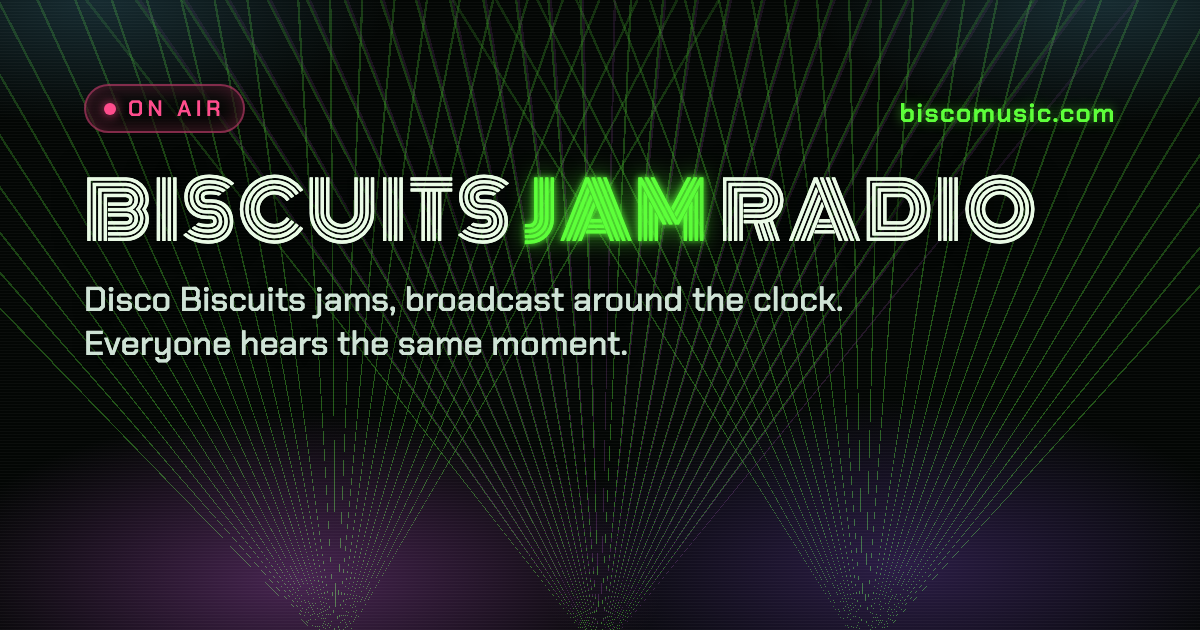
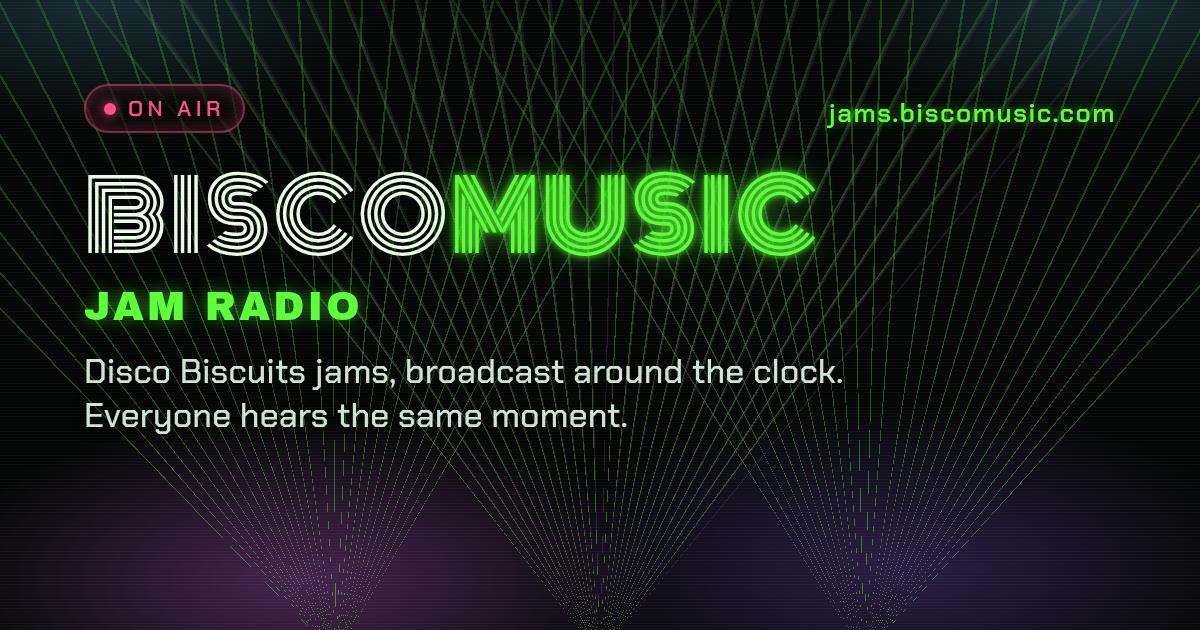
One brand: the biscomusic wordmark on every page, the station named under it
The station pages led with "BISCUITS JAM/SHOW RADIO", which read like the band's own product and never
showed the site's name. Now every header is the BISCOMUSIC wordmark (linking to the picker) with JAM RADIO
or SHOW RADIO in solid green under it; titles and link previews say "Jam Radio · biscomusic", the picker's
cards say JAM RADIO and SHOW RADIO, and each page ends with "Fan-run and unofficial". The link preview
image is re-rendered to match.

The oil effect was hard to read: its dark troughs broke the letters apart. The letters are now solid,
pearl and green, with a few soft iridescent bands drifting over them.

diff --git a/index.html b/index.html
@@ -3,7 +3,7 @@
 <head>
 <meta charset="utf-8">
 <meta name="viewport" content="width=device-width, initial-scale=1">
-<title>Biscuits Jam Radio</title>
+<title>Jam Radio · biscomusic</title>
 <meta name="description" content="All jams, no butter! Disco Biscuits jams, broadcast around the clock. Everyone hears the same moment — react and comment as it plays.">
 <meta name="theme-color" content="#030604">
 <link rel="icon" href="static/favicon.svg" type="image/svg+xml">
@@ -14,16 +14,16 @@
 <meta name="apple-mobile-web-app-title" content="Jam Radio">
 <meta name="apple-mobile-web-app-status-bar-style" content="black">
 <meta property="og:type" content="website">
-<meta property="og:site_name" content="Biscuits Jam Radio">
-<meta property="og:title" content="Biscuits Jam Radio">
+<meta property="og:site_name" content="biscomusic">
+<meta property="og:title" content="Jam Radio · biscomusic">
 <meta property="og:description" content="All jams, no butter! Disco Biscuits jams, broadcast around the clock. Everyone hears the same moment.">
 <meta property="og:url" content="https://jams.biscomusic.com/">
 <meta property="og:image" content="https://jams.biscomusic.com/static/og.png">
 <meta property="og:image:width" content="1200">
 <meta property="og:image:height" content="630">
-<meta property="og:image:alt" content="Biscuits Jam Radio: on air, with a heat map of the best moments">
+<meta property="og:image:alt" content="biscomusic Jam Radio: on air, with a heat map of the best moments">
 <meta name="twitter:card" content="summary_large_image">
-<meta name="twitter:title" content="Biscuits Jam Radio">
+<meta name="twitter:title" content="Jam Radio · biscomusic">
 <meta name="twitter:description" content="All jams, no butter! Disco Biscuits jams, broadcast around the clock. Everyone hears the same moment.">
 <meta name="twitter:image" content="https://jams.biscomusic.com/static/og.png">
 <link rel="preload" href="static/fonts/archivo-black-400.woff2" as="font" type="font/woff2" crossorigin>
@@ -36,7 +36,8 @@
 <main class="wrap">
   <header>
     <div class="brand">
-      <h1 data-oil><a href="https://biscomusic.com/" data-local="/home.html" aria-label="Biscuits Jam Radio, all stations">BISCUITS <span>JAM</span> RADIO</a></h1>
+      <h1 data-oil><a href="https://biscomusic.com/" data-local="/home.html" aria-label="biscomusic, all stations">BISCO<span>MUSIC</span></a></h1>
+      <p class="dial">JAM RADIO</p>
       <p class="tagline">All jams, no butter!</p>
     </div>
     <div class="hside">
@@ -159,6 +160,7 @@
     <a href="/nominate">Nominate jams</a>
     <a href="/install">Get the app</a>
   </nav>
+  <p class="fine">Fan-run and unofficial. Not affiliated with the Disco Biscuits.</p>
 </main>
 
 <!-- Everything besides the radio opens in this panel over it, so the music never stops (see "Panels" below).
@@ -1259,9 +1261,9 @@ function momentUrl(t, pos, c) {
 
 async function shareMoment(t, pos, c) {
   const url = momentUrl(t, pos, c);
-  const text = c ? `“${c.body}” — ${t.song} @ ${fmt(pos)}` : `${t.song}${t.jam ? ` (jam ${t.jam})` : ''} @ ${fmt(pos)} on Biscuits Jam Radio`;
+  const text = c ? `“${c.body}” — ${t.song} @ ${fmt(pos)}` : `${t.song}${t.jam ? ` (jam ${t.jam})` : ''} @ ${fmt(pos)} on biscomusic Jam Radio`;
   if (navigator.share) {
-    try { await navigator.share({ title: 'Biscuits Jam Radio', text, url }); return; }
+    try { await navigator.share({ title: 'Jam Radio · biscomusic', text, url }); return; }
     catch (e) { if (e.name === 'AbortError') return; }
   }
   try { await navigator.clipboard.writeText(url); toast('Link copied', 'link-2'); }
@@ -1405,7 +1407,7 @@ const panelFor = r => panels[r] ||= ROUTES[r].load().then(m => m.init(hostFor(r)
 });
 
 function setTitle() {
-  document.title = route ? `${ROUTES[route].title} · Biscuits Jam Radio` : S ? `${S.tracks[live().i].song} · Biscuits Jam Radio` : 'Biscuits Jam Radio';
+  document.title = route ? `${ROUTES[route].title} · Jam Radio` : S ? `${S.tracks[live().i].song} · Jam Radio` : 'Jam Radio · biscomusic';
 }
 
 // Show what the address says: a panel, or the radio (with a shared moment or the request sheet on it).

diff --git a/static/oil.js b/static/oil.js
@@ -1,6 +1,7 @@
 // Oil-slick colours moving inside the letters of every [data-oil] element (the radio's name in the page
-// headers): simplex noise posterized into iridescent rings with dark oil between them, a WebGL shader
-// after an "Oil Spill" Three.js sketch.
+// headers): a few soft iridescent bands of simplex noise drifting over solid letters (pearl, and green for
+// a <span>), a WebGL shader after an "Oil Spill" Three.js sketch. The sketch's dark oil between the bands
+// broke the letters apart and made the name hard to read, so it's gone.
 // The sketch's noise had a typo (dot(v, ...) for dot(i, ...)) that zeroed it more and more as time grew:
 // its six-pass swirl warp never moved anything, and after about a minute the whole picture went flat green.
 // This uses the correct noise and leaves out the warp, which renders what the sketch showed in its first
@@ -79,7 +80,8 @@ function oilText(el) {
     }
 
     void main() {
-      float alpha = texture2D(uMask, vUv).a;
+      vec4 m = texture2D(uMask, vUv);
+      float alpha = m.a;
       if (alpha < 0.004) { gl_FragColor = vec4(0.0); return; }
 
       vec2 uv = (vUv * uResolution - 0.5 * uResolution) / uUnit;
@@ -90,15 +92,16 @@ function oilText(el) {
       float n = snoise(vec3(uv * 1.26, t * 0.8));
       float val = n * 0.5 + 0.5;
 
-      // Posterized bands with soft edges, iridescent ridges and dark oil troughs between them
-      float bands = 14.0;
+      // Solid letters with an oil sheen: pearl, or green where the mask says accent (red 0), and a few
+      // soft iridescent bands drifting over them. No dark troughs, so every stroke stays whole and readable.
+      vec3 base = mix(vec3(0.95, 0.99, 0.93), vec3(0.36, 1.0, 0.23), 1.0 - m.r);
+      float bands = 5.0;
       float scaled = val * bands;
-      float posterized = (floor(scaled) + smoothstep(0.75, 0.95, fract(scaled))) / bands;
+      float posterized = (floor(scaled) + smoothstep(0.6, 1.0, fract(scaled))) / bands;
       vec3 iridescence = oilPalette(posterized * 2.2 - t * 0.5);
-      float darkMask = smoothstep(0.15, 0.55, sin(scaled * 3.14159));
-      // Troughs lifted from the original near-black so the letters stay readable on the dark card
-      vec3 color = mix(vec3(0.24, 0.22, 0.3), iridescence, darkMask);
-      color += smoothstep(0.4, 0.0, abs(n)) * oilPalette(val + 0.2) * 0.25;   // sheen along the ridges
+      float film = smoothstep(0.2, 0.8, sin(scaled * 3.14159)) * 0.38;
+      vec3 color = mix(base, base * iridescence * 1.6, film);
+      color += smoothstep(0.3, 0.0, abs(n)) * 0.12;   // a highlight along the ridges
 
       gl_FragColor = vec4(color * alpha, alpha);
     }`;
@@ -152,12 +155,12 @@ function oilText(el) {
 
     ctx.setTransform(dpr, 0, 0, dpr, 0, 0);
     ctx.clearRect(0, 0, width, height);
-    ctx.fillStyle = '#fff';
     ctx.textBaseline = 'alphabetic';
     const range = document.createRange();
     const texts = document.createTreeWalker(el, NodeFilter.SHOW_TEXT);
     for (let node; (node = texts.nextNode());) {
       const style = getComputedStyle(node.parentElement);   // a <span> inside may have its own font
+      ctx.fillStyle = node.parentElement.closest('span') ? '#0f0' : '#fff';   // and is the accent colour
       ctx.font = `${style.fontStyle} ${style.fontWeight} ${style.fontSize} ${style.fontFamily}`;
       const ascent = ctx.measureText('Hg').fontBoundingBoxAscent;
       let offset = 0;

diff --git a/home.html b/home.html
@@ -4,14 +4,14 @@
 <meta charset="utf-8">
 <meta name="viewport" content="width=device-width, initial-scale=1">
 <title>biscomusic · Disco Biscuits radio</title>
-<meta name="description" content="Two Disco Biscuits radio stations: Biscuits Jam Radio plays the jams, Biscuits Show Radio plays every full soundboard show on archive.org.">
+<meta name="description" content="Two Disco Biscuits radio stations: Jam Radio plays the jams, Show Radio plays every full soundboard show on archive.org.">
 <meta name="theme-color" content="#030604">
 <link rel="icon" href="/static/favicon.svg" type="image/svg+xml">
 <link rel="apple-touch-icon" href="/static/apple-touch-icon.png">
 <meta property="og:type" content="website">
 <meta property="og:site_name" content="biscomusic">
 <meta property="og:title" content="biscomusic · Disco Biscuits radio">
-<meta property="og:description" content="Biscuits Jam Radio plays the jams. Biscuits Show Radio plays every full soundboard show, start to finish.">
+<meta property="og:description" content="Jam Radio plays the jams. Show Radio plays every full soundboard show, start to finish.">
 <meta property="og:url" content="https://biscomusic.com/">
 <meta property="og:image" content="https://jams.biscomusic.com/static/og.png">
 <meta name="twitter:card" content="summary_large_image">
@@ -21,8 +21,6 @@
 <link rel="stylesheet" href="/static/app.css">
 <meta name="icons" content="/static/icons.svg">
 <style>
-/* "BISCOMUSIC" is 7.3em wide in Archivo Black: as big as fits beside the button (see app.css h1) */
-@supports (width:1cqw){h1{font-size:max(.875rem,min(68px,100cqw / 7.4))}}
 .stations{display:grid;gap:16px}
 a.station{display:block;padding:24px;color:inherit;text-decoration:none}
 a.station:hover{border-color:rgba(93,255,58,.5)}
@@ -50,17 +48,18 @@ a.station:hover .go{text-decoration:underline}
   <nav class="stations" aria-label="Stations">
     <a class="station now" href="https://jams.biscomusic.com/" data-local="/">
       <div class="label">The jams</div>
-      <div class="name">BISCUITS <span>JAM</span> RADIO</div>
+      <div class="name"><span>JAM</span> RADIO</div>
       <p>All jams, no butter! Disco Biscuits jams, broadcast around the clock. Vote for what plays next, react and comment as it plays.</p>
       <span class="go">Tune in <svg class="i" aria-hidden="true"><use href="/static/icons.svg#arrow-right"/></svg></span>
     </a>
     <a class="station now" href="https://shows.biscomusic.com/" data-local="/shows/">
       <div class="label">Whole shows</div>
-      <div class="name">BISCUITS <span>SHOW</span> RADIO</div>
+      <div class="name"><span>SHOW</span> RADIO</div>
       <p>Every full soundboard show on archive.org, start to finish, one show after another, and a vault of audience tapes you can request.</p>
       <span class="go">Tune in <svg class="i" aria-hidden="true"><use href="/static/icons.svg#arrow-right"/></svg></span>
     </a>
   </nav>
+  <p class="fine">Fan-run and unofficial. Not affiliated with the Disco Biscuits.</p>
 </main>
 <script src="/static/icon.js"></script>
 <script src="/static/a11y.js"></script>

diff --git a/static/app.css b/static/app.css
@@ -51,16 +51,17 @@ header{display:flex;align-items:flex-start;justify-content:space-between;gap:12p
 .hside{display:flex;align-items:center;gap:8px;flex:none}
 @media(max-width:480px){.hside{flex-direction:column;align-items:flex-end}}
 .hside .motion{width:32px;height:32px;padding:0;border-radius:50%}
-/* Heavy letters, as big as fit on one line beside the pill: "BISCUITS JAM RADIO" is 12.1em wide
-   in Archivo Black, so 100cqw / 12.25 of the brand box. The rem floor makes it grow with text zoom
-   (WCAG 1.4.4), wrapping when it no longer fits. static/oil.js fills the letters with moving oil.
-   Browsers without container units get the older two-line size. */
+/* The biscomusic wordmark, the same on every page, as big as fits on one line beside the pill: "BISCOMUSIC"
+   is 7.3em wide in Archivo Black, so 100cqw / 7.4 of the brand box, up to 68px. The rem floor makes it grow
+   with text zoom (WCAG 1.4.4). static/oil.js fills the letters with moving oil. Under it, the station's
+   name (.dial) in solid green: it stays readable at any size, where the oil wouldn't. */
 .brand{flex:1;min-width:0;container-type:inline-size}
-h1{font:400 clamp(40px,10vw,68px)/1 var(--logo);letter-spacing:.01em;margin:0}
-@supports (width:1cqw){h1{font-size:max(.875rem,min(68px,100cqw / 12.25))}}
+h1{font:400 clamp(32px,8vw,68px)/1 var(--logo);letter-spacing:.01em;margin:0}
+@supports (width:1cqw){h1{font-size:max(.875rem,min(68px,100cqw / 7.4))}}
 h1 span{color:var(--accent);text-shadow:0 0 4px var(--accent),0 0 14px rgba(93,255,58,.6)}
 /* The name links back to the station picker (biscomusic.com); it keeps the heading's look */
 h1 a{color:inherit;text-decoration:none}
+.dial{margin:10px 0 0;font:400 clamp(18px,4.6vw,24px)/1 var(--logo);letter-spacing:.08em;color:var(--accent);text-shadow:0 0 10px rgba(93,255,58,.45)}
 .tagline{margin:6px 0 0;font-size:13px;font-weight:500;letter-spacing:.12em;color:var(--dim)}
 .live{display:inline-flex;align-items:center;gap:8px;font-size:11px;font-weight:600;letter-spacing:.18em;color:var(--dim);border:1px solid var(--line);padding:7px 11px;border-radius:999px;white-space:nowrap}
 .live i{width:8px;height:8px;border-radius:50%;background:var(--dim)}
@@ -308,6 +309,7 @@ dialog.sheet::backdrop{background:rgba(1,3,2,.72);backdrop-filter:blur(3px)}
 .foot{display:flex;flex-wrap:wrap;justify-content:center;gap:6px 20px;margin-top:28px;font-size:14px}
 .foot a{color:var(--accent);text-decoration:none;min-height:24px}
 .foot a:hover{text-decoration:underline}
+.fine{margin:18px 0 0;text-align:center;font-size:12px;color:var(--dim)}
 .kclip{margin-top:16px;padding:12px 16px 14px;border-radius:16px;border:1px solid rgba(226,104,255,.45);background:linear-gradient(135deg,rgba(226,104,255,.10),rgba(8,30,14,.4));animation:popin .25s ease-out}
 .kclip .fhead .label{color:var(--accent2)}
 .kclip .fhead .iconbtn{margin:-4px -8px -4px 0}

diff --git a/shows/index.html b/shows/index.html
@@ -3,18 +3,18 @@
 <head>
 <meta charset="utf-8">
 <meta name="viewport" content="width=device-width, initial-scale=1">
-<title>Biscuits Show Radio</title>
+<title>Show Radio · biscomusic</title>
 <meta name="description" content="Every full Disco Biscuits soundboard show on archive.org, start to finish, around the clock, and a vault of audience tapes by request. Everyone hears the same moment — react and comment as it plays.">
 <meta name="theme-color" content="#030604">
 <link rel="icon" href="/static/favicon.svg" type="image/svg+xml">
 <link rel="apple-touch-icon" href="/static/apple-touch-icon.png">
 <meta property="og:type" content="website">
-<meta property="og:site_name" content="Biscuits Show Radio">
-<meta property="og:title" content="Biscuits Show Radio">
+<meta property="og:site_name" content="biscomusic">
+<meta property="og:title" content="Show Radio · biscomusic">
 <meta property="og:description" content="Every full Disco Biscuits soundboard show on archive.org, start to finish, around the clock.">
 <meta property="og:url" content="https://shows.biscomusic.com/">
 <meta name="twitter:card" content="summary">
-<meta name="twitter:title" content="Biscuits Show Radio">
+<meta name="twitter:title" content="Show Radio · biscomusic">
 <meta name="twitter:description" content="Every full Disco Biscuits soundboard show on archive.org, start to finish, around the clock.">
 <link rel="preload" href="/static/fonts/archivo-black-400.woff2" as="font" type="font/woff2" crossorigin>
 <link rel="preload" href="/static/fonts/chakra-petch-400.woff2" as="font" type="font/woff2" crossorigin>
@@ -27,7 +27,8 @@
 <main class="wrap">
   <header>
     <div class="brand">
-      <h1 data-oil><a href="https://biscomusic.com/" data-local="/home.html" aria-label="Biscuits Show Radio, all stations">BISCUITS <span>SHOW</span> RADIO</a></h1>
+      <h1 data-oil><a href="https://biscomusic.com/" data-local="/home.html" aria-label="biscomusic, all stations">BISCO<span>MUSIC</span></a></h1>
+      <p class="dial">SHOW RADIO</p>
       <p class="tagline">Full soundboard shows, start to finish</p>
     </div>
     <div class="hside">
@@ -119,9 +120,10 @@
 
   <nav class="foot" aria-label="More">
     <a href="https://biscomusic.com/" data-local="/home.html">All stations</a>
-    <a href="https://jams.biscomusic.com/" data-local="/">Biscuits Jam Radio</a>
+    <a href="https://jams.biscomusic.com/" data-local="/">Jam Radio</a>
     <a href="https://archive.org/details/DiscoBiscuits" target="_blank" rel="noopener">The tapes on archive.org</a>
   </nav>
+  <p class="fine">Fan-run and unofficial. Not affiliated with the Disco Biscuits.</p>
 </main>
 
 <div class="toast" id="toast" role="status" hidden></div>

diff --git a/art/og.html b/art/og.html
@@ -3,6 +3,7 @@
 <html><head><meta charset="utf-8"><style>
 @font-face{font-family:'Chakra Petch';font-weight:500;src:url(../static/fonts/chakra-petch-500.woff2)}
 @font-face{font-family:'Chakra Petch';font-weight:600;src:url(../static/fonts/chakra-petch-600.woff2)}
+@font-face{font-family:'Archivo Black';src:url(../static/fonts/archivo-black-400.woff2)}
 @font-face{font-family:'Monoton';src:url(../static/fonts/monoton-400.woff2)}
 html,body{margin:0;width:1200px;height:630px;overflow:hidden}
 body{background:
@@ -22,17 +23,19 @@ body{background:
 .wrap{position:absolute;left:84px;top:84px;right:84px}
 .live{display:inline-flex;align-items:center;gap:12px;font-size:22px;font-weight:600;letter-spacing:.2em;color:#ff4d8d;border:2px solid rgba(255,77,141,.5);padding:8px 18px;border-radius:999px;background:rgba(3,6,4,.6);box-shadow:0 0 22px rgba(255,77,141,.3) inset}
 .live i{width:12px;height:12px;border-radius:50%;background:#ff4d8d;box-shadow:0 0 12px #ff4d8d}
-h1{font:400 78px/1 'Monoton';margin:40px 0 26px;letter-spacing:.03em;white-space:nowrap;text-shadow:0 0 30px rgba(3,6,4,.9)}
+h1{font:400 96px/1 'Monoton';margin:36px 0 22px;letter-spacing:.03em;white-space:nowrap;text-shadow:0 0 30px rgba(3,6,4,.9)}
 h1 span{color:#5dff3a;text-shadow:0 0 6px #5dff3a,0 0 24px rgba(93,255,58,.7)}
+.dial{font:400 40px/1 'Archivo Black';letter-spacing:.08em;color:#5dff3a;margin:0 0 22px;text-shadow:0 0 16px rgba(93,255,58,.5)}
 p{font-size:34px;font-weight:500;line-height:1.3;color:#cfe3d6;margin:0;max-width:900px;text-shadow:0 2px 12px #030604}
 .url{position:absolute;right:84px;top:96px;font-size:26px;font-weight:600;color:#5dff3a;letter-spacing:.06em;text-shadow:0 0 12px rgba(93,255,58,.5)}
 </style></head><body>
 <div class="lasers"><i></i><i></i><i></i><i></i></div>
 <div class="scan"></div>
-<div class="url">biscomusic.com</div>
+<div class="url">jams.biscomusic.com</div>
 <div class="wrap">
   <div class="live"><i></i>ON AIR</div>
-  <h1>BISCUITS <span>JAM</span> RADIO</h1>
+  <h1>BISCO<span>MUSIC</span></h1>
+  <div class="dial">JAM RADIO</div>
   <p>Disco Biscuits jams, broadcast around the clock. Everyone hears the same moment.</p>
 </div>
 </body></html>

diff --git a/functions/index.js b/functions/index.js
@@ -16,11 +16,11 @@ export async function onRequestGet(context) {
   const comment = url.searchParams.has('c') ? await getComment(env, url.searchParams.get('c')) : null;
   const useComment = comment && comment.track === moment.track;
   const date = new Date(t.date + 'T12:00:00Z').toLocaleDateString('en-US', { month: 'short', day: 'numeric', year: 'numeric', timeZone: 'UTC' });
-  const title = `${t.song}${t.jam ? ` (jam ${t.jam})` : ''} @ ${fmt(moment.pos)} · Biscuits Jam Radio`;
+  const title = `${t.song}${t.jam ? ` (jam ${t.jam})` : ''} @ ${fmt(moment.pos)} · Jam Radio · biscomusic`;
   const show = `${date} · ${t.venue} · ${t.city}`;
   const description = useComment
     ? `“${comment.body}” — ${comment.nickname || 'anonymous'} · ${show}`
-    : `A moment from ${show}. Everyone hears the same moment on Biscuits Jam Radio.`;
+    : `A moment from ${show}. Everyone hears the same moment on biscomusic Jam Radio.`;
 
   const set = value => ({ element: el => el.setAttribute('content', value) });
   return new HTMLRewriter()

diff --git a/static/shows.js b/static/shows.js
@@ -114,7 +114,7 @@ function render() {
   if (i !== shownIdx) {
     shownIdx = i;
     $('song').textContent = titleOf(t);
-    document.title = `${titleOf(t)} · ${day(s.date)} · Biscuits Show Radio`;
+    document.title = `${titleOf(t)} · ${day(s.date)} · Show Radio`;
     if ('mediaSession' in navigator) navigator.mediaSession.metadata = new MediaMetadata({ title: titleOf(t), artist: 'The Disco Biscuits', album: showLine(s), artwork: ARTWORK });
     if (t.si !== shownShow) renderShow(t.si);
     [...$('tracks').children].forEach((li, n) => {

diff --git a/static/shows.css b/static/shows.css
@@ -1,7 +1,4 @@
-/* Biscuits Show Radio (shows/index.html), on top of app.css */
-
-/* "BISCUITS SHOW RADIO" is 13.15em wide in Archivo Black: as big as fits beside the pill (see app.css h1) */
-@supports (width:1cqw){h1{font-size:max(.875rem,min(68px,100cqw / 13.3))}}
+/* Show Radio (shows/index.html), on top of app.css */
 
 /* The show's timeline: one segment per track, as long as the track; played ones lit, the current one filling */
 .showbar{display:flex;gap:2px;height:14px;margin:18px 0 8px}

diff --git a/build.py b/build.py
@@ -35,16 +35,16 @@ WAVES = os.path.join(HERE, 'waves')
 # name: (title, description, og:description)
 PANELS = {
     'best': ('Best moments',
-             'The most-loved and most talked-about moments on Biscuits Jam Radio. Vote to hear one again.',
+             'The most-loved and most talked-about moments on Jam Radio. Vote to hear one again.',
              'The most-loved and most talked-about moments on the station. Vote to hear one again.'),
     'nominate': ('Nominate jams',
-                 'Search every Disco Biscuits show on Nugs and upvote the jams you want on Biscuits Jam Radio.',
+                 'Search every Disco Biscuits show on Nugs and upvote the jams you want on Jam Radio.',
                  'Search every Disco Biscuits show on Nugs and upvote the jams you want on the station.'),
     'install': ('Get the app',
-                'Install Biscuits Jam Radio on your iPhone, iPad, Android, Mac or Windows PC. Opens like an app and keeps playing from your lock screen.',
-                'Install Biscuits Jam Radio on iPhone, iPad, Android, Mac or Windows. No app store needed.'),
+                'Install biscomusic Jam Radio on your iPhone, iPad, Android, Mac or Windows PC. Opens like an app and keeps playing from your lock screen.',
+                'Install biscomusic Jam Radio on iPhone, iPad, Android, Mac or Windows. No app store needed.'),
     'first-played': ('First time played',
-                     'Every Disco Biscuits song on the night it debuted. Hear the first performance and the latest, see how often each song has been played since, and request its jams on Biscuits Jam Radio.',
+                     'Every Disco Biscuits song on the night it debuted. Hear the first performance and the latest, see how often each song has been played since, and request its jams on Jam Radio.',
                      'Every Disco Biscuits song on the night it debuted. Hear the first performance next to the latest one.'),
 }
 WAVE_BARS = 200
@@ -341,7 +341,7 @@ def other_sites(versioned):
 def panel_page(html, name):
     """The radio page as served at /<name>: the panel's title and description in its link preview."""
     title, description, og = PANELS[name]
-    full = f'{title} · Biscuits Jam Radio'
+    full = f'{title} · Jam Radio · biscomusic'
     for pattern, value in ((r'(<title>)[^<]*(</title>)', full),
                            (r'(<meta name="description" content=")[^"]*(")', description),
                            (r'(<meta property="og:title" content=")[^"]*(")', full),
